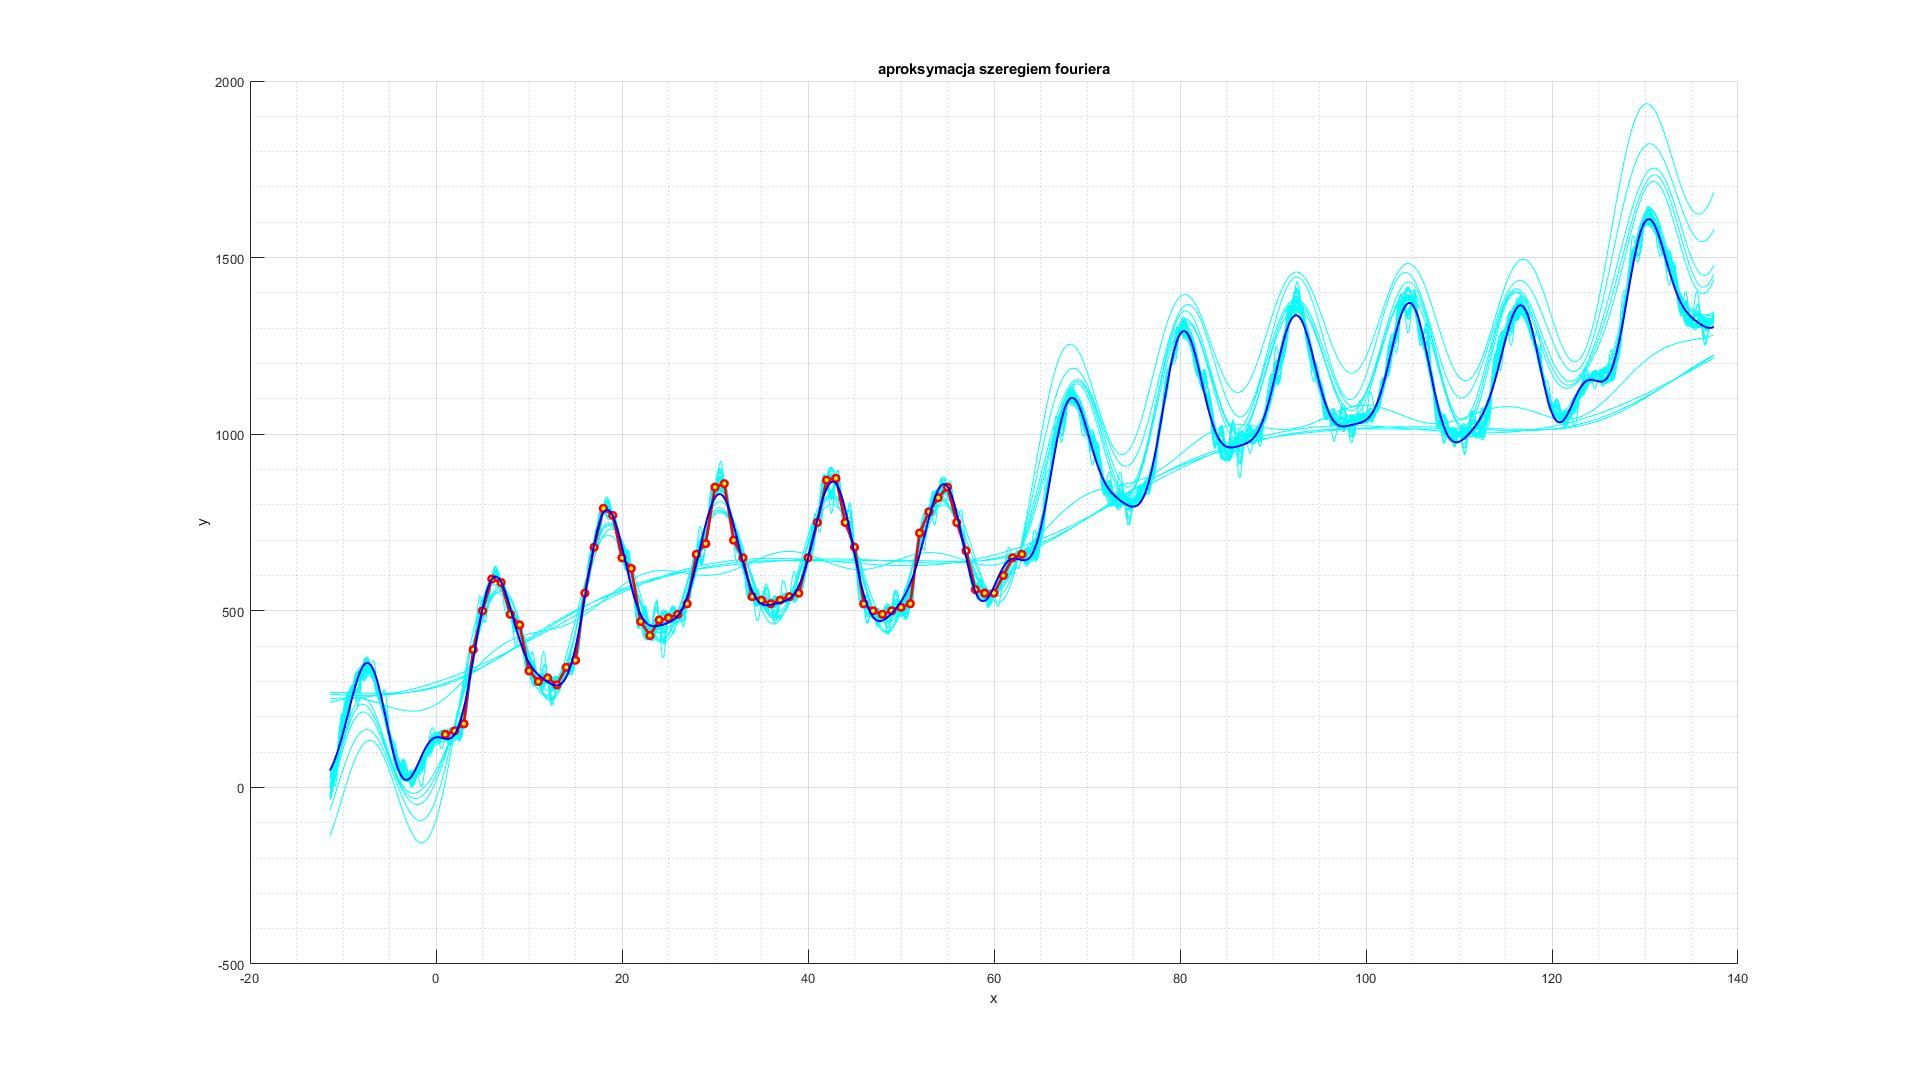
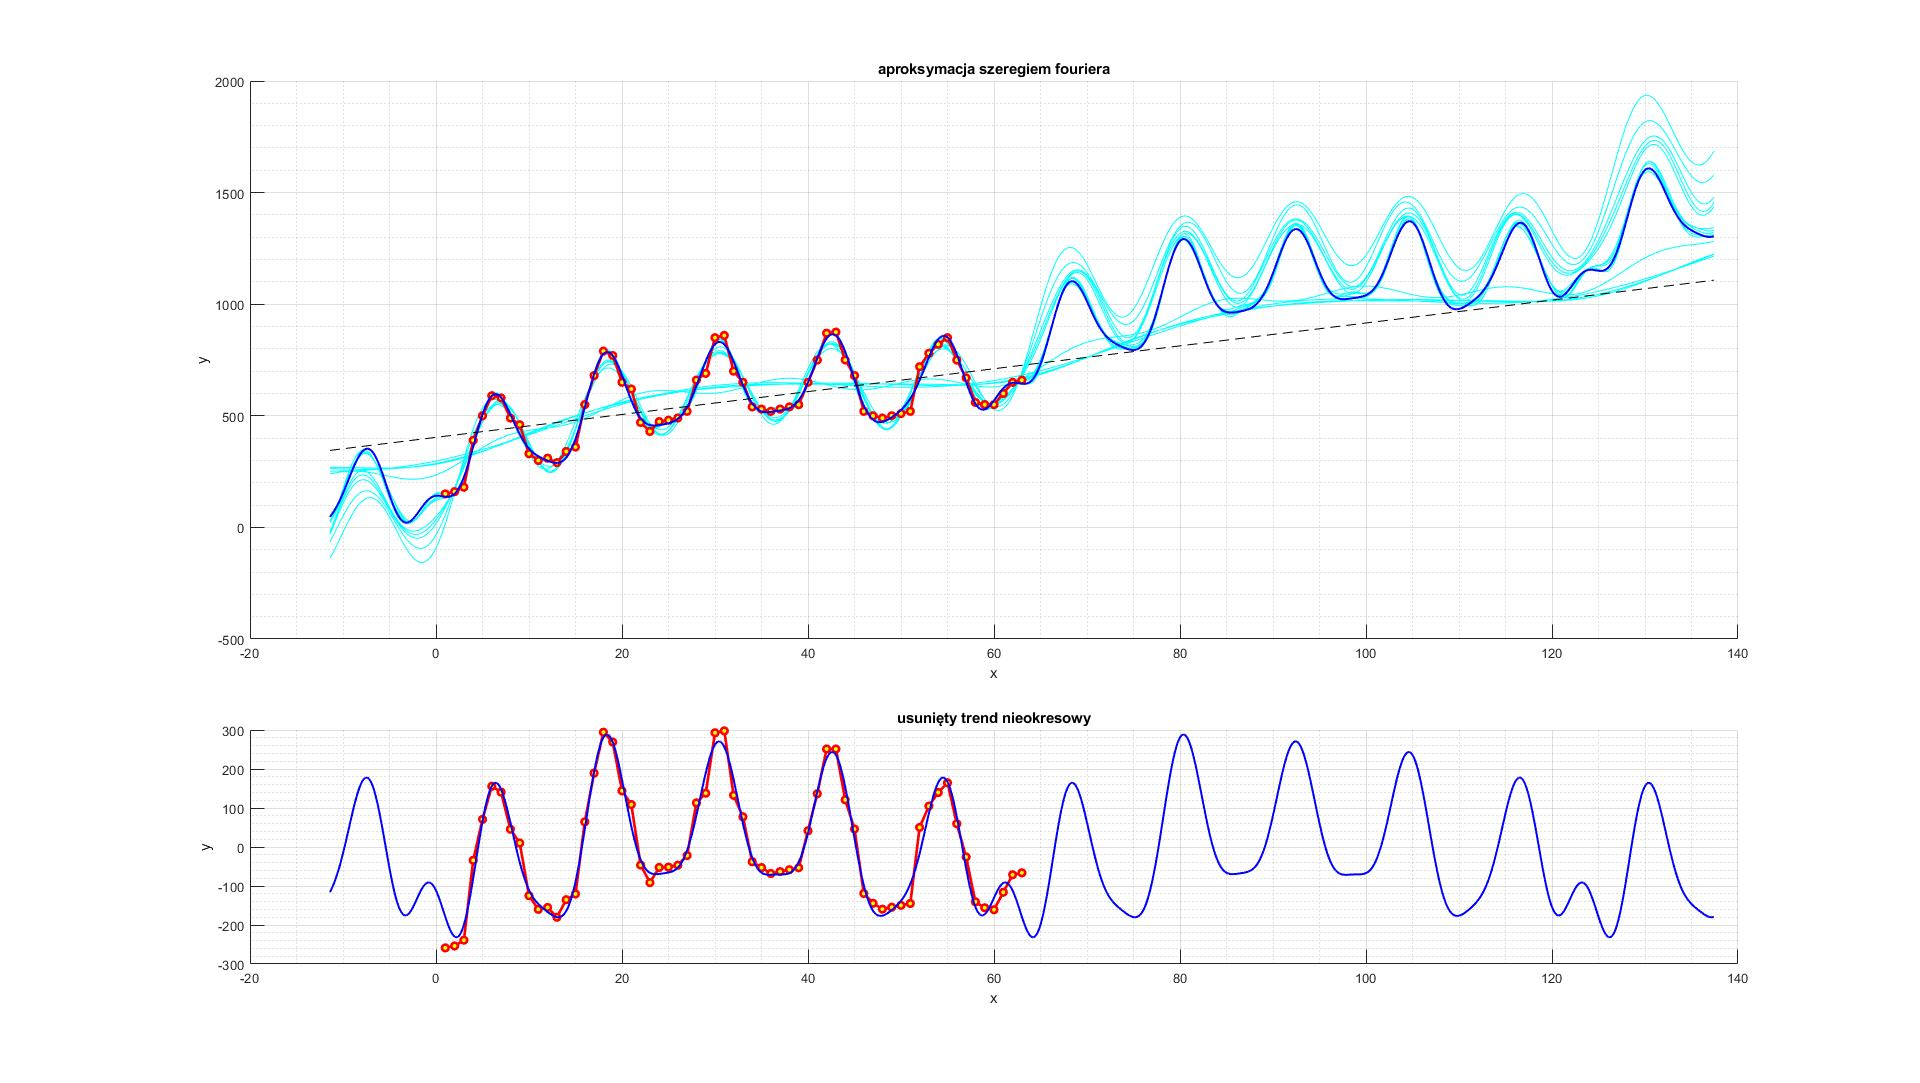
Add files via upload

diff --git a/fsapp_start.m b/fsapp_start.m
@@ -48,12 +48,13 @@ mp = 2;
 
 figure(1);  % okno do rysowania, wywołanie figure(1) uwidoczni gdy zakryte
 clf;        % resetowanie wszystkich ustawień, wymazywanie zawartości
+subplot(3, 1, [1, 2]); % Górny wykres
 hold all;   % kolejne operacje nie będą niszczyły rzeczy już narysowanych
 
 % Rysowanie lekko widocznych krzywych uzyskanych z różnorodnymi opcjami.
 
 low_mh = 1;
-high_mh = 55;
+high_mh = fix(length(x) / 4); 
 for mh = low_mh : high_mh
     yi = fsapp(x, y, xi, mh, mp);  % obliczanie aproksymacji
     plot(xi, yi, 'cyan');          % rysowanie
@@ -67,7 +68,12 @@ plot(x,y, 'red-o', 'MarkerSize', 5, 'MarkerFace', 'yellow', 'LineWidth', 2);
 
 mh = 10;
 [yi, p, a, b] = fsapp(x, y, xi, mh, mp);  % obliczanie aproksymacji
-plot(xi, yi, 'blue', 'LineWidth', 1.5);         % rysowanie
+plot(xi, yi, 'blue', 'LineWidth', 1.5);   % rysowanie
+
+% Linia trendu nieokresowego
+
+ypi = fsapp(x, y, xi, 0, mp);
+plot(xi, ypi, 'k--');
 
 % Dopracowanie szczegółów takich jak opis osi.
 
@@ -76,6 +82,25 @@ grid minor;
 xlabel 'x';
 ylabel 'y';
 title 'aproksymacja szeregiem fouriera';
+
+subplot(3, 1, 3);  % dolny wykres
+hold all;
+
+y_poly = fsapp(x, y, x, 0, mp);
+y_removed_poly = y - y_poly;
+yi_removed_poly = fsapp(x, y_removed_poly, xi, mh, 0);
+
+plot(x,y_removed_poly, 'red-o', 'MarkerSize', 5, 'MarkerFace', 'yellow', 'LineWidth', 2);
+plot(xi, yi_removed_poly, 'blue', 'LineWidth', 1.5);
+
+% Dopracowanie szczegółów takich jak opis osi.
+
+grid on;
+grid minor;
+xlabel 'x';
+ylabel 'y';
+title 'usunięty trend nieokresowy';
+
 
 % Wypisanie obliczonych parametrów.
 
